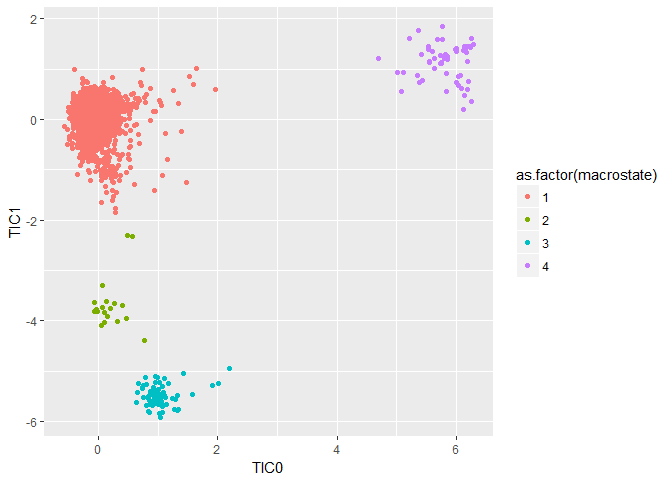
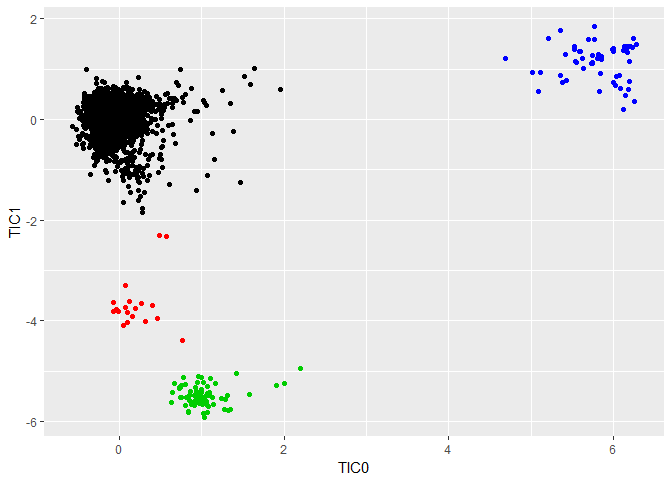
scale_color_identity put back

diff --git a/content/tutorials/scatterplot.md b/content/tutorials/scatterplot.md
@@ -33,6 +33,7 @@ Visualization
       ##----map data values to visual values
       scale_x_continuous() +
       scale_y_continuous() +
+      scale_color_identity() +
       theme()
 
 ![](scatterplot_files/figure-markdown_strict/unnamed-chunk-3-1.png)
